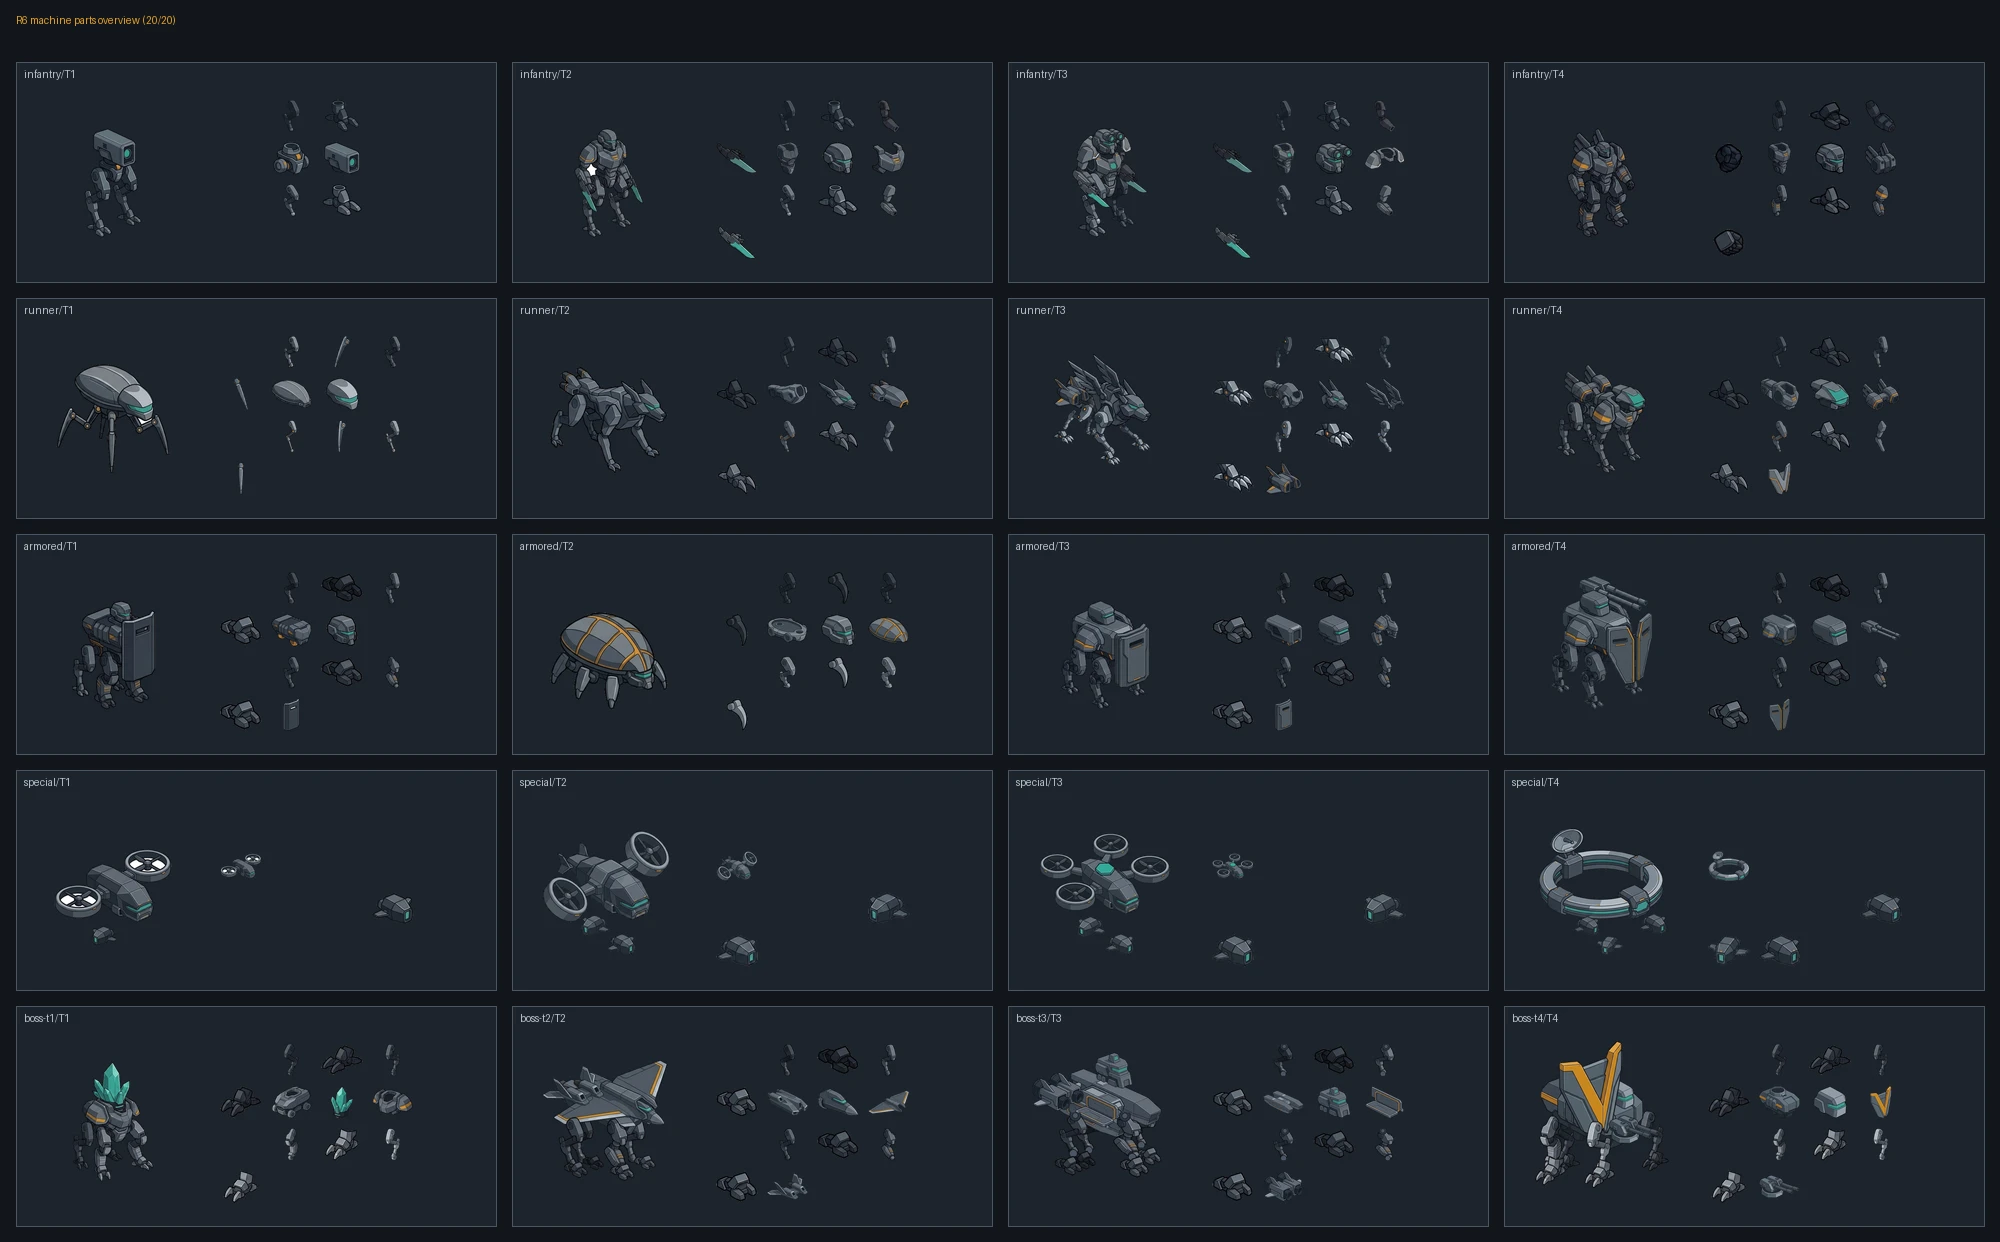
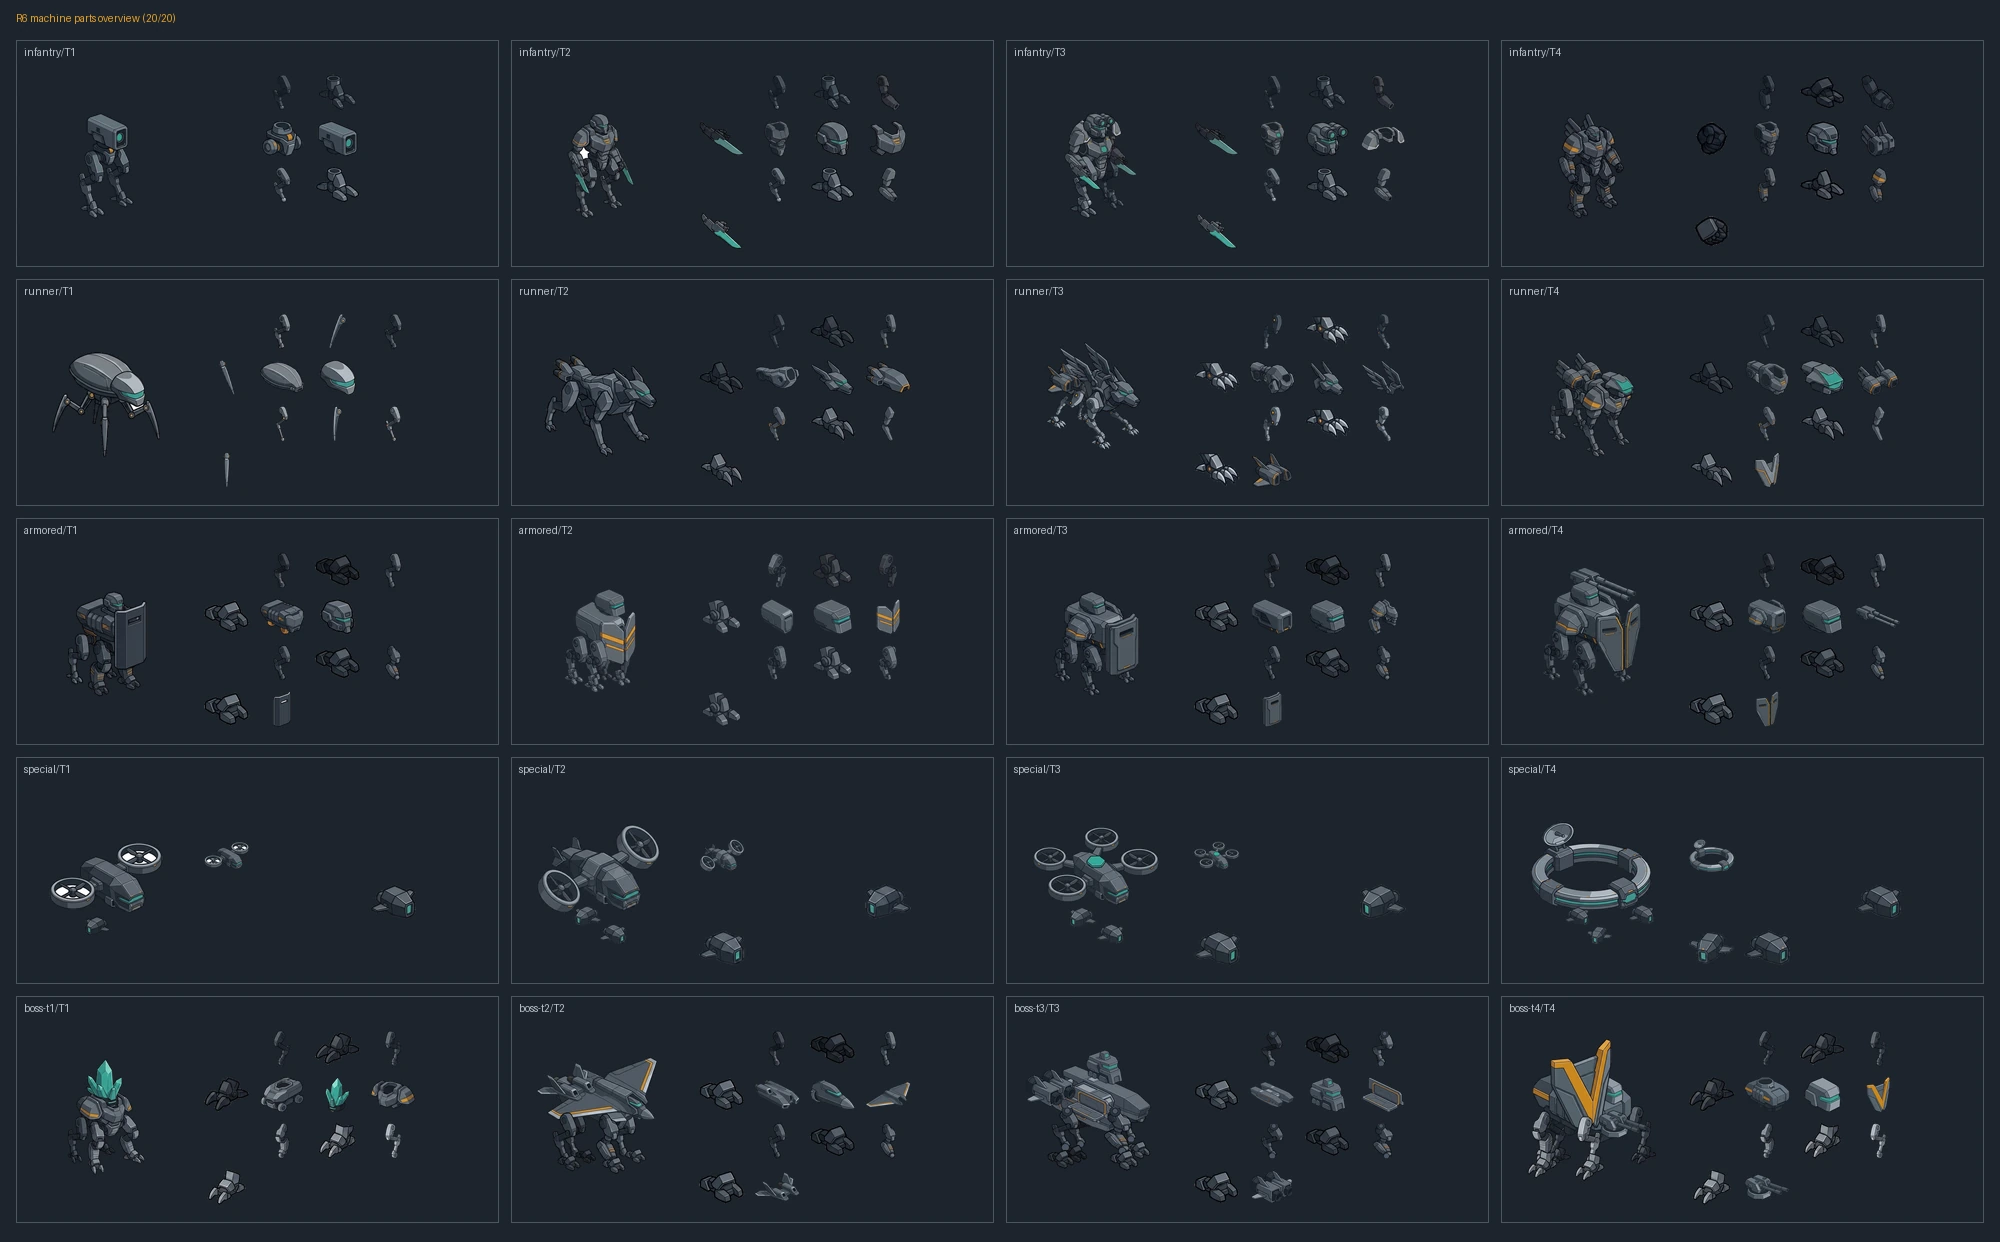
R6 G4 기계 군단 비평 재작화 1개체(armored-t2) 반영

diff --git a/asset-source/r6/monsters/machine/STATUS.md b/asset-source/r6/monsters/machine/STATUS.md
@@ -37,3 +37,8 @@
 - `infantry/T3/sheet.png`, `assembly.png` (4차 REDO 반영): `armor` 중앙 목 아치 내부의 밝은 회색 구멍을 어두운 슬레이트 장갑(`#1D242C`)으로 채우고 흰 픽셀(1,301px → 0px) 톤다운 정리, T1 관절 기준 재조립(`cut_parts` `issues=0`, 모의 `fit_parts` IoU 0.879).
 - `boss-t3/T3/sheet.png`, `assembly.png` (4차 REDO 반영): 4족 다리 상·하단 관절 소켓 두께 보강 및 `body` 하단·발 소켓 겹침 깊게 재조립(`cut_parts` `issues=0`, 모의 `fit_parts` IoU 0.823).
 - `armored/T4`, `boss-t2~t4`: 32px 외곽선 차별화를 위해 넓은 상자형 몸통을 피하고 다리 사이 빈 공간과 V형 방패·2연장 포탑·스텔스 날개 돌출을 적용함.
+
+## G4 비평 검수 재작화 (`docs/renewal/r6/review/G4-monsters-critique.md` 5항)
+
+- `armored/T2` (비평 5항): 벌레 갑충형 돔을 폐기하고 T1~T3 중장갑 보행기 계통을 잇는 45° 모따기 직립 4족 장갑 보행기(이중 전면 방패 `armor`·상부 틸 센서 머리·4족 유압 다리)로 재작화 (`cut_parts` `issues=0` · 11/11 슬롯, T1 관절 기준 모의 `fit_parts` IoU `0.872`, 32px 벌레 중장갑군 최대 IoU `0.531`, 지형/길 대비 `1.986/1.349`, 흰색·마젠타 잔여 `0/0`).
+- `docs/renewal/r6/bible/sheets/monsters-machine-parts-all.webp` 갱신 완료.
